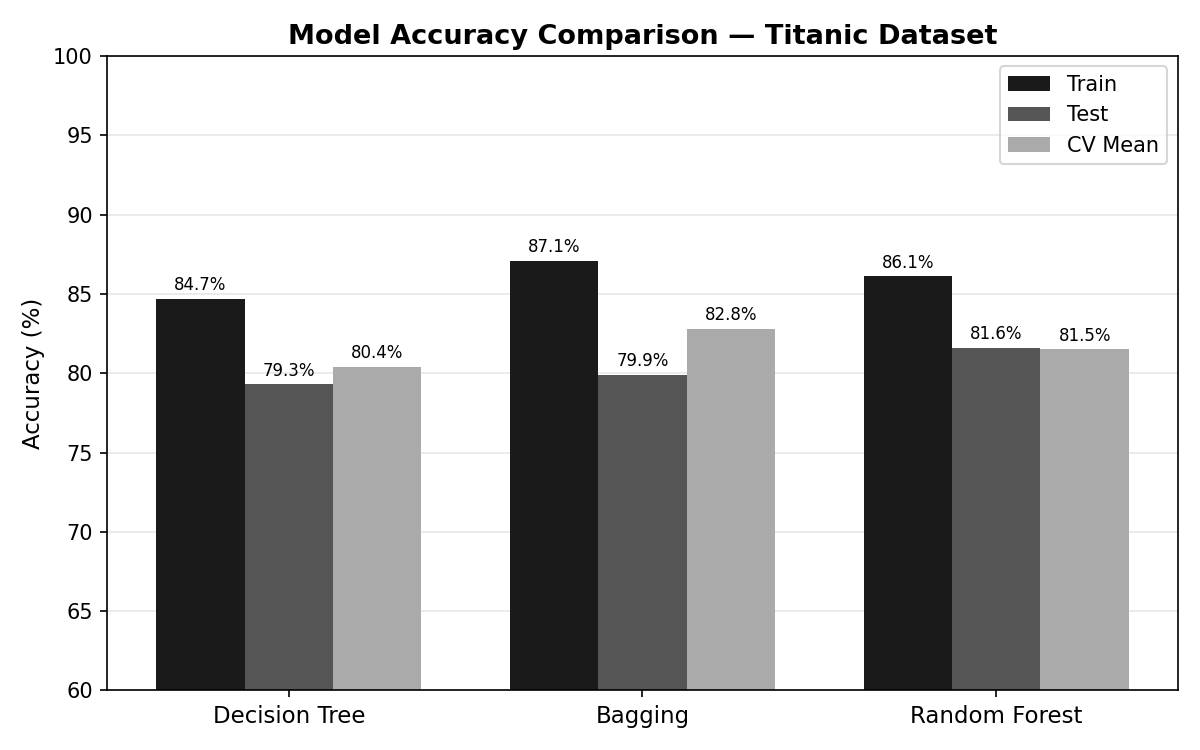
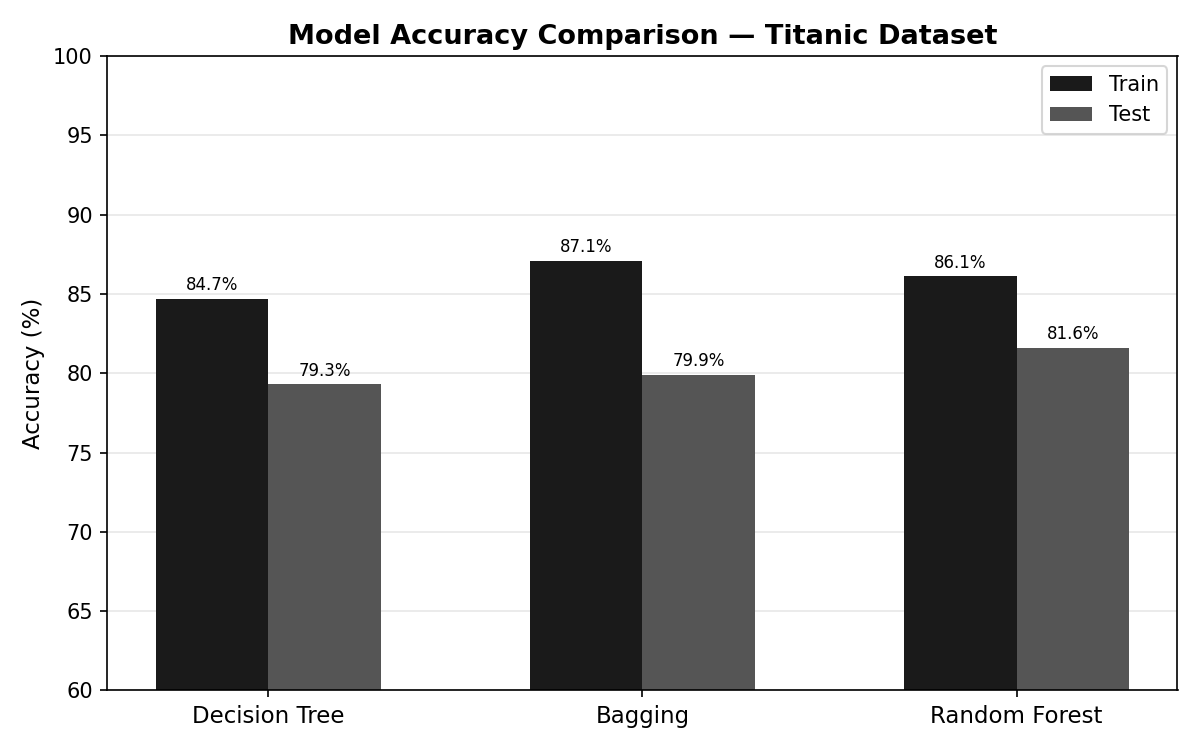
Remove CV Mean bar from accuracy chart, simplify to train vs test only
CV mean added a third bar that required explanation to be useful.
Train vs test alone tells the cleaner story; overfitting gap chart
covers the generalization angle separately.

diff --git a/ma289.html b/ma289.html
@@ -1680,7 +1680,7 @@
       <!-- Chart 1: Accuracy comparison — full width -->
       <div class="chart-card chart-card-wide">
         <div class="chart-title">Model Accuracy: Train / Test / 5-Fold CV</div>
-        <p class="chart-note">All three models use <code style="font-family:'Share Tech Mono',monospace;font-size:10px;color:var(--green-bright)">max_depth=5</code>. Random Forest achieves the highest test accuracy at 81.6%, beating the single Decision Tree (79.3%) and Bagging (79.9%). CV scores closely track test accuracy, confirming the results generalize.</p>
+        <p class="chart-note">All three models use <code style="font-family:'Share Tech Mono',monospace;font-size:10px;color:var(--green-bright)">max_depth=5</code>. Random Forest achieves the highest test accuracy at 81.6%, beating the single Decision Tree (79.3%) and Bagging (79.9%). The gap between train and test bars shows how much each model overfits.</p>
         <img class="chart-img" src="img/chart_accuracy.png" alt="Bar chart comparing train, test, and cross-validation accuracy for Decision Tree, Bagging, and Random Forest on the Titanic dataset">
       </div>
 

diff --git a/titanic_analysis.py b/titanic_analysis.py
@@ -1,0 +1,122 @@
+import pandas as pd
+import numpy as np
+import matplotlib
+matplotlib.use('Agg')
+import matplotlib.pyplot as plt
+import json
+from sklearn.tree import DecisionTreeClassifier
+from sklearn.ensemble import BaggingClassifier, RandomForestClassifier
+from sklearn.model_selection import cross_val_score, train_test_split
+from sklearn.metrics import accuracy_score, confusion_matrix
+from sklearn.preprocessing import LabelEncoder
+
+# ── LOAD & CLEAN ──────────────────────────────────────────────────────────────
+df = pd.read_csv(r'C:\Users\dennis.pezan\AppData\Local\Temp\train.csv')
+
+# Fill missing values
+df['Age'].fillna(df['Age'].median(), inplace=True)
+df['Embarked'].fillna(df['Embarked'].mode()[0], inplace=True)
+
+# Encode categoricals
+df['Sex'] = LabelEncoder().fit_transform(df['Sex'])          # male=1, female=0
+df['Embarked'] = LabelEncoder().fit_transform(df['Embarked'])
+
+# Features
+FEATURES = ['Pclass', 'Sex', 'Age', 'SibSp', 'Parch', 'Fare', 'Embarked']
+X = df[FEATURES]
+y = df['Survived']
+
+X_train, X_test, y_train, y_test = train_test_split(
+    X, y, test_size=0.2, random_state=42)
+
+# ── MODELS ────────────────────────────────────────────────────────────────────
+dt  = DecisionTreeClassifier(max_depth=5, random_state=42)
+bag = BaggingClassifier(estimator=DecisionTreeClassifier(max_depth=5),
+                        n_estimators=50, random_state=42)
+rf  = RandomForestClassifier(n_estimators=100, max_depth=5, random_state=42)
+
+models = {'Decision Tree': dt, 'Bagging': bag, 'Random Forest': rf}
+
+results = {}
+for name, model in models.items():
+    model.fit(X_train, y_train)
+    train_acc = accuracy_score(y_train, model.predict(X_train))
+    test_acc  = accuracy_score(y_test,  model.predict(X_test))
+    cv_scores = cross_val_score(model, X, y, cv=5)
+    results[name] = {
+        'train_acc': round(train_acc * 100, 1),
+        'test_acc':  round(test_acc  * 100, 1),
+        'cv_mean':   round(cv_scores.mean() * 100, 1),
+        'cv_std':    round(cv_scores.std()  * 100, 1),
+    }
+    print(f"{name}: Train={train_acc:.3f}  Test={test_acc:.3f}  CV={cv_scores.mean():.3f}±{cv_scores.std():.3f}")
+
+# ── CHART 1: Accuracy Comparison ──────────────────────────────────────────────
+fig, ax = plt.subplots(figsize=(8, 5))
+names  = list(results.keys())
+train_ = [results[n]['train_acc'] for n in names]
+test_  = [results[n]['test_acc']  for n in names]
+
+x = np.arange(len(names))
+w = 0.30
+bars1 = ax.bar(x - w/2, train_, w, label='Train', color='#1a1a1a')
+bars2 = ax.bar(x + w/2, test_,  w, label='Test',  color='#555555')
+
+ax.set_ylabel('Accuracy (%)', fontsize=11)
+ax.set_title('Model Accuracy Comparison — Titanic Dataset', fontsize=13, fontweight='bold')
+ax.set_xticks(x)
+ax.set_xticklabels(names, fontsize=11)
+ax.set_ylim(60, 100)
+ax.legend()
+ax.yaxis.grid(True, alpha=0.3)
+ax.set_axisbelow(True)
+
+for bar in [*bars1, *bars2]:
+    ax.text(bar.get_x() + bar.get_width()/2, bar.get_height() + 0.3,
+            f'{bar.get_height():.1f}%', ha='center', va='bottom', fontsize=8)
+
+plt.tight_layout()
+plt.savefig(r'C:\Users\dennis.pezan\Downloads\GAME_FILE\img\chart_accuracy.png', dpi=150)
+plt.close()
+print("Saved chart_accuracy.png")
+
+# ── CHART 2: Feature Importance (RF) ──────────────────────────────────────────
+importances = rf.feature_importances_
+sorted_idx  = np.argsort(importances)[::-1]
+feat_names  = [FEATURES[i] for i in sorted_idx]
+feat_vals   = [importances[i] for i in sorted_idx]
+
+fig, ax = plt.subplots(figsize=(7, 4))
+ax.barh(feat_names[::-1], feat_vals[::-1], color='#1a1a1a')
+ax.set_xlabel('Importance Score', fontsize=11)
+ax.set_title('Random Forest — Feature Importance', fontsize=13, fontweight='bold')
+ax.xaxis.grid(True, alpha=0.3)
+ax.set_axisbelow(True)
+plt.tight_layout()
+plt.savefig(r'C:\Users\dennis.pezan\Downloads\GAME_FILE\img\chart_features.png', dpi=150)
+plt.close()
+print("Saved chart_features.png")
+
+# ── CHART 3: Overfitting Gap ───────────────────────────────────────────────────
+fig, ax = plt.subplots(figsize=(7, 4))
+gaps = [results[n]['train_acc'] - results[n]['test_acc'] for n in names]
+colors = ['#ff6b6b' if g > 5 else '#69b578' for g in gaps]
+ax.bar(names, gaps, color=colors)
+ax.set_ylabel('Train − Test Accuracy (%)', fontsize=11)
+ax.set_title('Overfitting Gap by Model', fontsize=13, fontweight='bold')
+ax.yaxis.grid(True, alpha=0.3)
+ax.set_axisbelow(True)
+for i, (name, gap) in enumerate(zip(names, gaps)):
+    ax.text(i, gap + 0.1, f'{gap:.1f}%', ha='center', va='bottom', fontsize=10)
+plt.tight_layout()
+plt.savefig(r'C:\Users\dennis.pezan\Downloads\GAME_FILE\img\chart_overfit.png', dpi=150)
+plt.close()
+print("Saved chart_overfit.png")
+
+# ── SAVE RESULTS JSON ─────────────────────────────────────────────────────────
+with open(r'C:\Users\dennis.pezan\Downloads\GAME_FILE\titanic_results.json', 'w') as f:
+    json.dump(results, f, indent=2)
+
+print("\n── RESULTS ──")
+for name, r in results.items():
+    print(f"{name}: Test={r['test_acc']}%  CV={r['cv_mean']}±{r['cv_std']}%")
